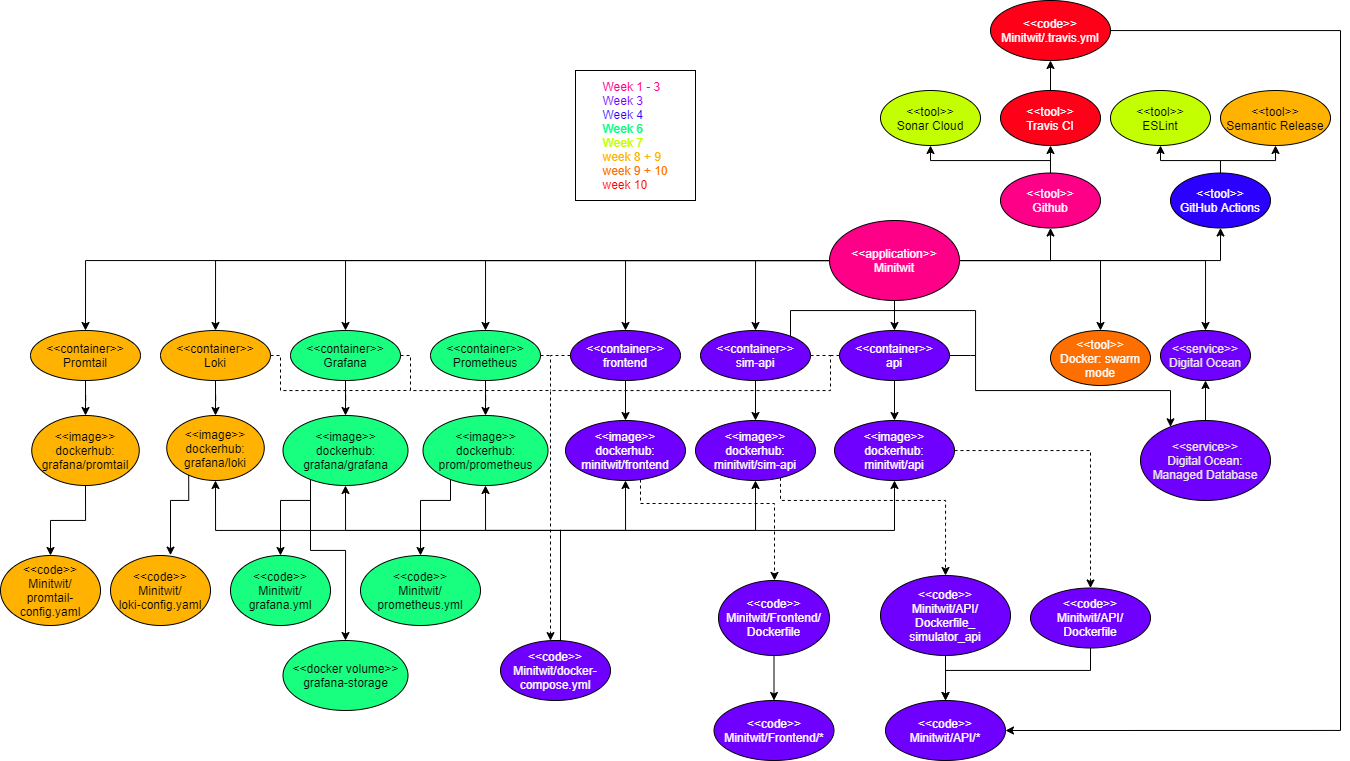
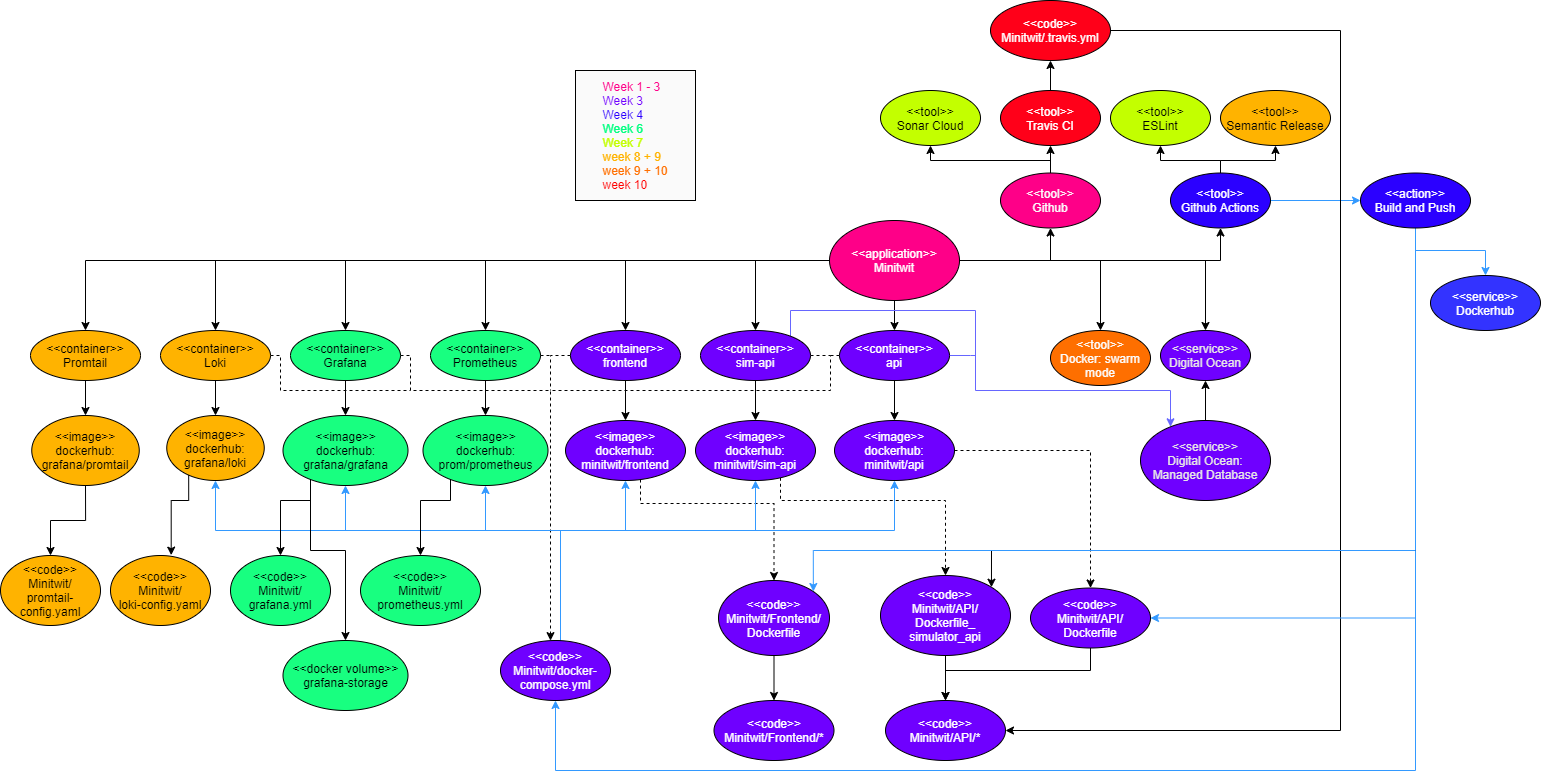
Hampus & Marcus: Finished dependencies and made corrections to other sections

diff --git a/report/2.Process-perspective.tex b/report/2.Process-perspective.tex
@@ -5,18 +5,28 @@ The team created a Discord channel to function as the main communication channel
 The team used Jira's Kanban Board feature\cite{jira} to gain a better overview of the various tasks. The Kanban consisted of the following columns: "To Do", "In Progress", and "Done". Hence, the team could move the tasks to the corresponding status of its progress, such that the state was visible to the rest of the team members.
 
 \subsection{A complete description of stages and tools included in the CI/CD chains.}
-The CI/CD pipeline uses Github actions, Travis CI, ESLint, and Sonar Cloud. Github actions is run on both the develop and main branch when a pull request or push to the repository is made. \\
+\todo{Need better styling}
+The CI/CD pipeline uses Github actions, Travis CI, ESLint, Sonar Cloud, and Semantic Release. Github actions is run on both the develop and main branch when a pull request or push to the repository is made. \\
 
-ESLint is used through the github action \textit{stefanoeb/eslint-action@1.0.2} \cite{eslint-action} and is performing static code analysis by checking line indentation, unused variables, props passed to React components etc. Travis CI is integrated into the Minitwit repository and is used to run all unit tests within the APIs \cite{travis-ci}. Sonar Cloud is also used to perform static code analysis and checks code smells such as if code duplication exceeds 4\%. It also scans for potential security vulnerabilities \cite{sonarcloud}.\\
-\\
-Furthermore, any push to the master branch with a commit name with the prefix \textit{fix}, \textit{feat} or \textit{BREAKING CHANGE} would cause a Github action to be run which creates a release on the main branch. This is done using the \textit{semantic-release} action \cite{semantic-release}.
+ESLint is used through the github action \textit{stefanoeb/eslint-action@1.0.2} \cite{eslint-action} and is performing static code analysis by checking line indentation, unused variables, props passed to React components etc. Travis CI is integrated into the Minitwit repository and is used to run all unit tests within the Minitwit/API folder \cite{travis-ci}. Sonar Cloud is also used to perform static code analysis and checks code smells such as if code duplication exceeds 4\%. It also scans for potential security vulnerabilities \cite{sonarcloud}.
 
-\subsubsection{Develop and main branch pipeline}
-On a pull request, the Travis CI, Sonar Cloud and the ESLint Github action are all being run. If they all pass, then the pull request is merged by a developer.\\
-\\
-On a push to one of the branches, three Github actions are run. The actions builds the Frontend, API and Sim-Api Docker images and pushes them to Dockerhub. Once all three builds have finished, a fourth action is started which ssh's into the swarm manager droplet on Digital Ocean and updates the corresponding running services in the swarm using the \textit{docker service update --image name-of-image} command. The ssh action is \textit{appleboy/ssh-action@master}\cite{ssh-action}.
+\subsubsection{Pull request}
+On a pull request, the Travis CI, Sonar Cloud and the ESLint Github action are all being run. If they all pass, then the developers are allowed to perform the merge.
 
-\todo{vi mangler Latex til pdf pipeline}
+\subsubsection{Push}
+On a push to the main or Develop branch, a \textit{Build and Push} Github action is run. The jobs builds the Frontend, API and Sim-Api Docker images and pushes them to Dockerhub. Once all three jobs have finished, a fourth job is started which ssh's into the swarm manager droplet on Digital Ocean and updates the corresponding running services in the swarm using the \textit{docker service update --image name-of-image} command. The ssh action is \textit{appleboy/ssh-action@master}\cite{ssh-action}. Below is an image taken from the Github action log showing the four jobs:
+
+\begin{figure}[H]
+    \centering
+    \includegraphics[width=1\linewidth]{report/images/build-and-deploy-action.png}
+    \caption{Build and deploy action successfully run}
+    \label{fig:build-and-deploy}
+\end{figure}
+
+Furthermore, a Github action with the name \textit{Create Release} running \textit{Semantic Release} will act on any push to the master branch with a commit name with the prefix \textit{fix}, \textit{feat} or \textit{BREAKING CHANGE}. If the commit's name fulfills the prefix, the \textit{Semantic Release} will create a new release on the main branch \cite{semantic-release}.
+
+\subsubsection{Automating latex to pdf}
+\todo{vi mangler GitHub action der konverterer Latex-rapporten til PDF}
 
 \subsection{Organization of your repositor(ies)}
 The MiniTwit application was built using a mono-repository on GitHub. The structure in the Repository consisted of a sub-folder for the API (API for the front end and the Simulator API), a sub-folder for the Frontend React Application, and a sub-folder for the report written in Latex. 
@@ -25,7 +35,7 @@ The MiniTwit application was built using a mono-repository on GitHub. The struct
 The team applied the task-branching strategy\cite{branching} together with having both a Main and Develop branch. The Develop branch was initially a mirror of the Main branch and is where new functionality is developed and tested. Once a task is created on Jira and a team member has been assigned to develop it, the developer will create a branch with the task-name off of the Develop branch. Once completed and tested successfully the branch is merged into Develop. Finally, Develop was merged into Main once a week. However, this was not happening weekly in the first weeks of the project due to the team being behind schedule. 
 
 \subsection{Applied development process and tools supporting it}
-The team tried to use pair-programming as much as possible as opposed to assigning each member with their own task. Pair programming was preferred to allow most possible members to get hands on experience with the various DevOps themes and to enhance code quality. To facilitate pair-programming, the team utilized Discord's screen sharing functionality as well as Visual Studio Code's Live Share functionality\cite{live_share}. While screen sharing functionality is self-explanatory, the Live Share functionality provided a way for multiple developers to work on the documents simultaneously. 
+The team tried to use pair-programming in an informal manner as much as possible as opposed to assigning each member with their own task. Pair programming was preferred to allow most possible members to get hands on experience with the various DevOps themes and to enhance code quality. To facilitate pair-programming, the team utilized Discord's screen sharing functionality as well as Visual Studio Code's Live Share functionality\cite{live_share}. While screen sharing functionality is self-explanatory, the Live Share functionality provided a way for multiple developers to work on the documents simultaneously. 
 
 \subsection{How do you monitor your systems and what precisely do you monitor?}
 %Requests to the server and responses
@@ -81,8 +91,8 @@ Furthermore, the collection of logs have utilized the Winston library in order t
         transports: [new transports.Console()],
     });
 \end{verbatim}
-This provides a log format to be used which shows the time-stamp of the log, the so-called "level" referring to a logging category, and the log message. Hence, the logs get a common syntax, and if a change is needed in the syntax it happens at a single place.
-
+This provides a log format to be used which shows the time-stamp of the log, the so-called "log level", and the log message. Hence, the logs get a common syntax, and if a change is needed in the syntax it happens at a single place.
+\\\\
 \todo{Færdiggør nedenstående (hvem end der startede det)}
 \noindent
 For the dashboard we chose to visualize 
@@ -105,9 +115,10 @@ Running NMAP showed the following open ports and services:
 None of these have any exploitable weaknesses. 
 
 \subsection{Applied strategy for scaling and load balancing}
-As already mentioned, the system is hosted in Docker swarm mode with two nodes running on their own droplet in the network. The docker swarm scales horizontally, as more worker nodes running on their own physical machine can join the swarm if the swarm were to be scaled. \\
+As already mentioned, the system is hosted in Docker swarm mode with two nodes running on their own droplets in the network. The docker swarm scales horizontally, as more worker nodes running on their own physical machine can join the swarm if the swarm were to be scaled. \\
 \\
-With swarm comes load balancing out of the box. The ingress network exposes the services on the swarm via the routing mesh. The load balancer decides which of the running instances of the requested service the request should end up at\cite{docker-ingress}. This is seen in figure \ref{fig:arcitechture-overview} where an incoming request to the load balancer on the \textit{production-worker} droplet is redirected to a container running within the \textit{Minitwit} component of the \textit{minitwit-webserver} droplet.
+With swarm comes load balancing out of the box. The ingress network exposes the services on the swarm via the routing mesh. The load balancer decides which of the running instances of the requested service the request should end up at\cite{docker-ingress}. This is seen in figure \ref{fig:arcitechture-overview} where an incoming request to the load balancer on the \textit{production-worker} droplet can be redirected to a container running within the \textit{Minitwit} component of the \textit{minitwit-webserver} droplet.
 
 \subsubsection{Updating the swarm}
-The swarm is configured to use rolling updates with \textit{--update-order} set to \textit{start-first}. For each service, an updated version is instantiated and monitored for 5 seconds before it is decided to be running successfully. Once running, the old instance of the service is shut down. This rolling update strategy is run for each service for each replica. See appendix \ref{appendix:docker-compose} for the full docker-compose.yml.
+The swarm is configured to use rolling updates with \textit{--update-order} set to \textit{start-first}. For each service, an updated version is instantiated and monitored for 5 seconds before it is decided to be running successfully. Once running, the old instance of the service is shut down. This rolling update strategy is run for each service for each replica. See appendix \ref{appendix:docker-compose} for the full docker-compose.yml.\\
+The start-first approach was chosen to guarantee that at least the desired amount of replicas are always run during updates.

diff --git a/report/1.System-Perspective.tex b/report/1.System-Perspective.tex
@@ -11,10 +11,12 @@ Below is a deployment diagram of the system:
     \caption{System Architecture}
     \label{fig:arcitechture-overview}
 \end{figure}
+\todo{figuren skal opdateres med den nyeste version fra draw.io!}
+\todo{Vi skal lige få afklaret om vi bruger promtail eller ej!}
 
 Green arrow: database connection\\
 
-The MiniTwit application runs on two droplets on Digital Ocean. A managed database hosted by Digital Ocean is used to host a Postgres database. The \textit{production-worker} droplet is running Docker swarm mode and is a swarm manager \cite{docker-swarm}. The \textit{minitwit-webserver} droplet is a worker node within the swarm. The MiniTwit application itself is grouped into the Minitwit component. The swarm hosts the Minitwit component in four replicas. The swarm also hosts the monitoring and logging stack one replica. The monitoring and logging stack consists of Promtail to perform log aggregation, Loki to store and enable log query, Prometheus to collect and perform metric querying and finally Grafana to display the monitored and logged data. The swarm is run with a docker-compose.yml, which can be seen in appendix \ref{appendix:docker-compose}. \\
+The MiniTwit application runs on two droplets on Digital Ocean. A managed database hosted by Digital Ocean is used to host a Postgres database. The \textit{production-worker} droplet is running Docker swarm mode and is a swarm manager \cite{docker-swarm}. The \textit{minitwit-webserver} droplet is a worker node within the swarm. The MiniTwit application itself is grouped into the Minitwit component. The swarm hosts the Minitwit component in four replicas. The swarm also hosts the monitoring and logging stack in one replica. The monitoring and logging stack consists of Promtail to perform log aggregation, Loki to store and enable log query, Prometheus to collect and perform metric querying and finally Grafana to display the monitored and logged data. The swarm is run with a docker-compose.yml, which can be seen in appendix \ref{appendix:docker-compose}. \\
 Furthermore, the swarm uses Dockerhub to pull all images for the services.
 \\
 Below is a decomposition of the Minitwit component:
@@ -36,7 +38,7 @@ The Minitwit component is an abstraction to increase readability in the UML draw
 
 
 The \textit{Frontend} service is written in React.js. Both the \textit{Sim-API} and \textit{API} are API's running on Node.js and exposes a RESTful API implemented with Express.js. \\
-The rationale behind using javascript for both the front-end and back-end was that all of the team members were experienced with javascript. It is also a light weight solution compared to a C\# implementation which is much more complex in terms of sub modules and interfaces. Also, developing with javascript is quick as each change in the source code is re-compiled in run-time during development, making debugging very easy.\\
+The rationale behind using javascript for both the front-end and back-end was that all of the team members were experienced with javascript. It is also a light-weight solution compared to a C\# implementation which is much more complex in terms of sub modules and interfaces. Also, developing with javascript is quick as each change in the source code is re-compiled in run-time during development, making debugging very easy.\\
 \\
 Below is a component diagram of the back-end illustrating the simplicity:
 
@@ -47,7 +49,7 @@ Below is a component diagram of the back-end illustrating the simplicity:
     \label{fig:back-end-component-diagram}
 \end{figure}
 
-Each component in the back-end is one single file and there are no interfaces. Both APIs implements the endpoints and uses the rest of the components as helpers to resolve each request.\\
+Each component in the back-end is one single file and there are no formal interfaces. Both APIs implements the endpoints and uses the rest of the components as helpers to resolve each request.\\
 The following list breifly describes each component:
 \begin{enumerate}
     \item Monitoring: Provides functionality to use metrics used for Prometheus
@@ -56,18 +58,13 @@ The following list breifly describes each component:
     \item DB Handler: Provides a database object with the database connection and schema.
 \end{enumerate}
 
-A Postgres database was chosen as all of the team members had previous experience using it and because it is a relational database, which fits the purpose of this project.
+A Postgres database was chosen as all of the team members had previous experience using it and because it is a relational database, which fits the purpose of this project. The Sequelize library is used in the \textit{DB Handler} as the database abstraction layer and was chosen because it is well documented \cite{sequelize} and has a large community on stackoverflow.
 
-%How the system is designed. The choices of the design through out the project. 
-%Why is the structure this way.. Like load balance. 
-%How is the system structured. Hvordan hænger det hele sammen.
-%Architecture and design...
-%samle 1.1 og 1.2
 \newpage
 \subsection{Dependencies}
 
 \subsubsection{Front-end and back-end low level diagrams}
-The following is a description of the UML syntax used in the next UML diagrams:
+The following is a description of the UML syntax used in the next two UML diagrams:
 \begin{enumerate}
     \item Squares: files that the team developed
     \item Circles: external libraries
@@ -82,7 +79,8 @@ The front-end has the following dependencies:
     \caption{Front-end dependency diagram}
     \label{fig:front-end-depencency-diagram}
 \end{figure}
-The squares are here components. Colors have here been used to improve the readability by each component having their own color. 
+The squares are here components. Colors have here been used to improve the readability by each component having their own color. \\
+The source code for this diagram is located at the Minitwit/Frontend folder.
 
 \newpage
 The back-end has the following dependencies:
@@ -93,31 +91,38 @@ The back-end has the following dependencies:
     \label{fig:back-end-depencency-diagram}
 \end{figure}
 
+The source code for this diagram is located at the Minitwit/API folder.
+All dependencies in the front-end and back-end uses the last release of the current major release. E.g. the \textit{bcrypt} dependency is \string^5.0.0 and will use future releases up until before the next major release: v6.0.0.
+
 \subsubsection{The big picture}
 
 
 \begin{figure}[H]
     \centering
-    \includegraphics[scale=0.25]{report/images/system-dependencies.png}
-    \caption{System dependencies. \href{https://www.google.dk/}{Full size image here}}
+    \includegraphics[scale=0.25, left]{report/images/system-dependencies.png}
+    \caption{System dependencies. \href{https://github.com/Niels-Frederik/MiniTwit/blob/main/report/images/system-dependencies.png}{Click here for full size image}}
     \label{fig:system-depencencies}
 \end{figure}
 
-\subsection{Important interactions of subsystems}
-\todo{det her bliver beskrevet ved component diagram og i afsnit 2. Er det overflødigt at have dette afsnit?}
+The following describes the UML syntax:
+\begin{enumerate}
+    \item Full line arrow: dependency
+    \item Stippled line arrow: retired dependency
+    \item Colored line arrow: for readability purpose only
+\end{enumerate}
+The diagram displays the dependencies of the project at a high level of abstraction. The various dependencies are color-coded such that the color corresponds to the week the dependency was introduced. 
+\\
+The dependencies of the front-end and back-end are omitted as they are described in figure \ref{fig:front-end-depencency-diagram} and \ref{fig:back-end-depencency-diagram}.
 
 \subsection{Describe the current state of your systems, for example using results of static analysis and quality assessment systems.}
+\todo{Skal laves}
 
-
-\subsection{Finally, describe briefly, if the license that you have chosen for your project is actually compatible with the licenses of all your direct dependencies.}
+\subsection{Describe briefly, if the license that you have chosen for your project is actually compatible with the licenses of all your direct dependencies.}
 The ScanCode toolkit\cite{scancode} were used to scan for all licenses within the MiniTwit repository. The scan here outputted several permissive licenses where the most relevant were MIT and Apache-2.0. Furthermore, the most important finding was that no version of the GPL license were present. This is important, as the GPL is a copyleft license which would require MiniTwit to be a free open-source license\cite{gpl}. Hence, since no copyleft licenses such as GPL are in the project, MiniTwit has a variety of licenses to choose from.\\
 The group chose the permissive MIT license in order to provide everyone with the free right to use the API, as well as keeping the developer team free from being liable of any claims made against any possible damage caused by the API.
-%Need to make a license
 
-%Any of the licenses used that are quite restrictive?
-%Get a high level perspective of the licenses.
-%Any of the tools which require many licenses?
-
-%Does the licenses belong to a specific technology like postgres? Ignore those
-%Look into the licenses which are more general. Only include these in depth, but mention the rest.
-
+\subsection{Service Level Agreement}
+The SLA mentions that the API guarantees an uptime of 100\%\\
+Vores SLA "https://github.com/Niels-Frederik/MiniTwit/blob/main/API/SLA.md"
+TA's omtale vdr. SLA: "https://github.com/LazyOpsDev/Minitwit/blob/develop/report/report.md"
+\todo{Læs i SLA'en hvordan uptime udregnes. Der skal skrives her hvordan dataen konkret ser ud (se TAøs rapport), jeg gik i stå fordi vi bare skriver "failure" under nogen af dem, og ikke om det er client eller server fejl. Tænker Yarl har lavet det?}
